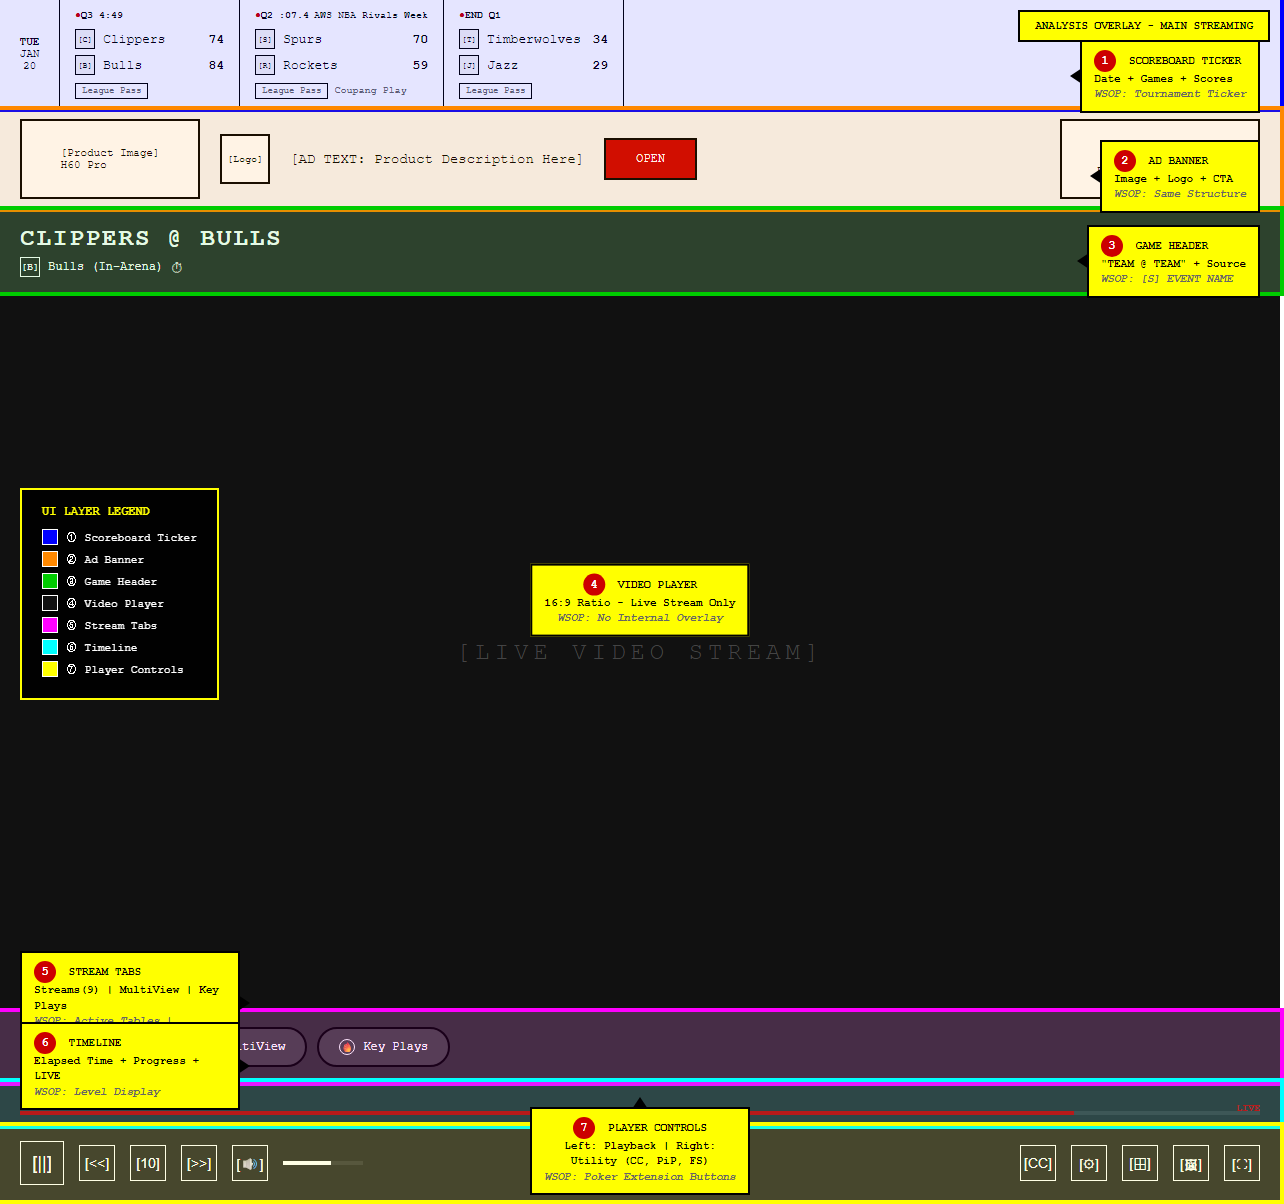
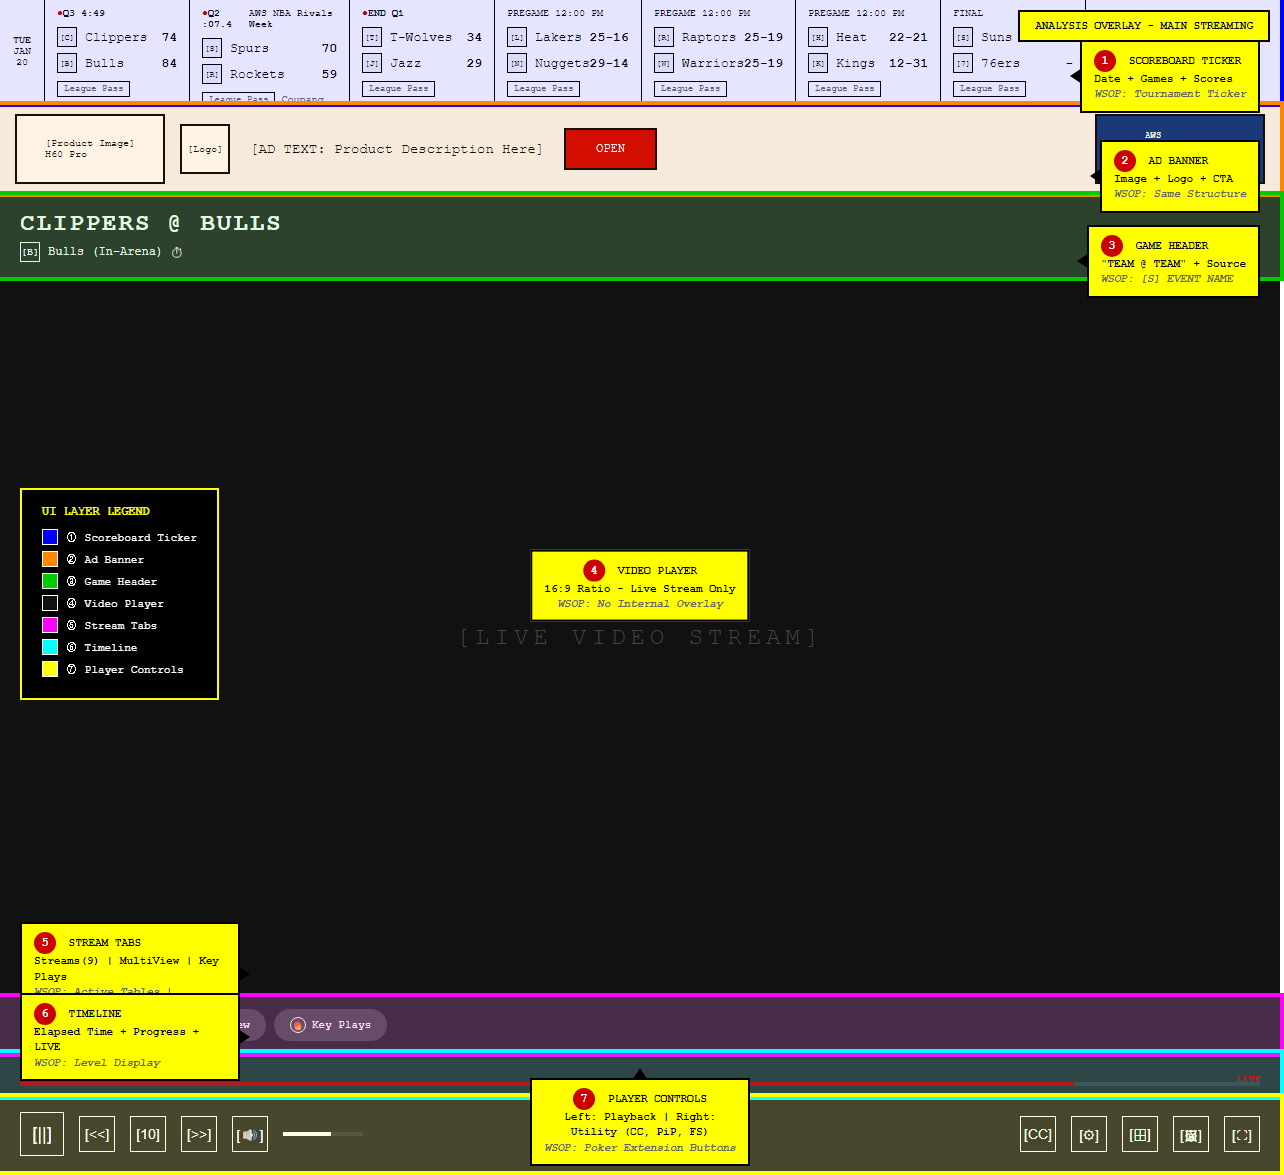
refactor(mockups): 01-main-streaming 레이아웃 원본 매칭 개선
- Ticker: 날짜 영역 60px → 45px, 게임 카드 180px → 145px
- Ticker: 게임 3개 → 7개로 확장 (원본과 동일)
- Ad Banner: 높이 100px → 90px, 이미지 180px → 150px
- Stream Tabs: pill 스타일 버튼으로 변경, 패딩 조정
- 프로모션 영역 스타일 개선 (AWS Rivals Week)

diff --git a/docs/mockups/nbatv-analysis/01-main-streaming-analysis.html b/docs/mockups/nbatv-analysis/01-main-streaming-analysis.html
@@ -169,17 +169,18 @@
       display: flex;
       border-bottom: var(--border);
       background: #fff;
-      height: 110px;
+      height: 105px;
       position: relative;
     }
     .ticker-date {
-      width: 60px;
+      width: 45px;
       display: flex;
       flex-direction: column;
       align-items: center;
       justify-content: center;
       border-right: var(--border-thin);
-      font-size: 11px;
+      font-size: 10px;
+      padding: 5px;
     }
     .ticker-date .day { font-weight: bold; }
     .ticker-games {
@@ -188,8 +189,9 @@
       overflow-x: auto;
     }
     .ticker-game {
-      min-width: 180px;
-      padding: 10px 15px;
+      min-width: 145px;
+      max-width: 160px;
+      padding: 8px 12px;
       border-right: var(--border-thin);
     }
     .game-status {
@@ -244,20 +246,20 @@
     .ad-banner {
       display: flex;
       align-items: center;
-      height: 100px;
+      height: 90px;
       border-bottom: var(--border);
       background: var(--bg-light);
       position: relative;
     }
     .ad-image {
-      width: 180px;
-      height: 80px;
-      margin: 0 20px;
+      width: 150px;
+      height: 70px;
+      margin: 0 15px;
       border: var(--border);
       display: flex;
       align-items: center;
       justify-content: center;
-      font-size: 11px;
+      font-size: 10px;
       background: #fff;
     }
     .ad-content {
@@ -289,16 +291,19 @@
       cursor: pointer;
     }
     .ad-promo {
-      width: 200px;
-      height: 80px;
-      margin-right: 20px;
+      width: 170px;
+      height: 70px;
+      margin-right: 15px;
+      margin-left: auto;
       border: var(--border);
       display: flex;
       align-items: center;
       justify-content: center;
-      font-size: 10px;
-      background: #fff;
+      font-size: 9px;
+      background: #003087;
+      color: #fff;
       text-align: center;
+      line-height: 1.3;
     }
 
     .game-header {
@@ -345,27 +350,30 @@
 
     .stream-tabs {
       display: flex;
-      gap: 10px;
-      padding: 15px 20px;
+      gap: 8px;
+      padding: 12px 20px;
       background: var(--bg-dark);
       position: relative;
     }
     .stream-tab {
-      padding: 10px 20px;
-      border: var(--border);
-      background: #444;
+      padding: 8px 16px;
+      border: none;
+      background: #555;
       color: #fff;
       font-family: inherit;
-      font-size: 12px;
+      font-size: 11px;
       cursor: pointer;
       display: flex;
       align-items: center;
-      gap: 8px;
-      border-radius: 20px;
+      gap: 6px;
+      border-radius: 18px;
     }
     .stream-tab.active {
       background: #fff;
       color: #000;
+    }
+    .stream-tab:not(.active):hover {
+      background: #666;
     }
     .tab-icon {
       width: 16px;
@@ -563,12 +571,68 @@
           <div class="game-status"><span class="status-live">END Q1</span></div>
           <div class="game-teams">
             <div class="team-row">
-              <span class="team-name"><span class="team-logo">[T]</span> Timberwolves</span>
+              <span class="team-name"><span class="team-logo">[T]</span> T-Wolves</span>
               <span class="team-score">34</span>
             </div>
             <div class="team-row">
               <span class="team-name"><span class="team-logo">[J]</span> Jazz</span>
               <span class="team-score">29</span>
+            </div>
+          </div>
+          <div class="game-tag"><span class="league-pass-tag">League Pass</span></div>
+        </div>
+        <div class="ticker-game">
+          <div class="game-status">PREGAME 12:00 PM</div>
+          <div class="game-teams">
+            <div class="team-row">
+              <span class="team-name"><span class="team-logo">[L]</span> Lakers</span>
+              <span class="team-score">25-16</span>
+            </div>
+            <div class="team-row">
+              <span class="team-name"><span class="team-logo">[N]</span> Nuggets</span>
+              <span class="team-score">29-14</span>
+            </div>
+          </div>
+          <div class="game-tag"><span class="league-pass-tag">League Pass</span></div>
+        </div>
+        <div class="ticker-game">
+          <div class="game-status">PREGAME 12:00 PM</div>
+          <div class="game-teams">
+            <div class="team-row">
+              <span class="team-name"><span class="team-logo">[R]</span> Raptors</span>
+              <span class="team-score">25-19</span>
+            </div>
+            <div class="team-row">
+              <span class="team-name"><span class="team-logo">[W]</span> Warriors</span>
+              <span class="team-score">25-19</span>
+            </div>
+          </div>
+          <div class="game-tag"><span class="league-pass-tag">League Pass</span></div>
+        </div>
+        <div class="ticker-game">
+          <div class="game-status">PREGAME 12:00 PM</div>
+          <div class="game-teams">
+            <div class="team-row">
+              <span class="team-name"><span class="team-logo">[H]</span> Heat</span>
+              <span class="team-score">22-21</span>
+            </div>
+            <div class="team-row">
+              <span class="team-name"><span class="team-logo">[K]</span> Kings</span>
+              <span class="team-score">12-31</span>
+            </div>
+          </div>
+          <div class="game-tag"><span class="league-pass-tag">League Pass</span></div>
+        </div>
+        <div class="ticker-game">
+          <div class="game-status">FINAL</div>
+          <div class="game-teams">
+            <div class="team-row">
+              <span class="team-name"><span class="team-logo">[S]</span> Suns</span>
+              <span class="team-score">-</span>
+            </div>
+            <div class="team-row">
+              <span class="team-name"><span class="team-logo">[7]</span> 76ers</span>
+              <span class="team-score">-</span>
             </div>
           </div>
           <div class="game-tag"><span class="league-pass-tag">League Pass</span></div>
